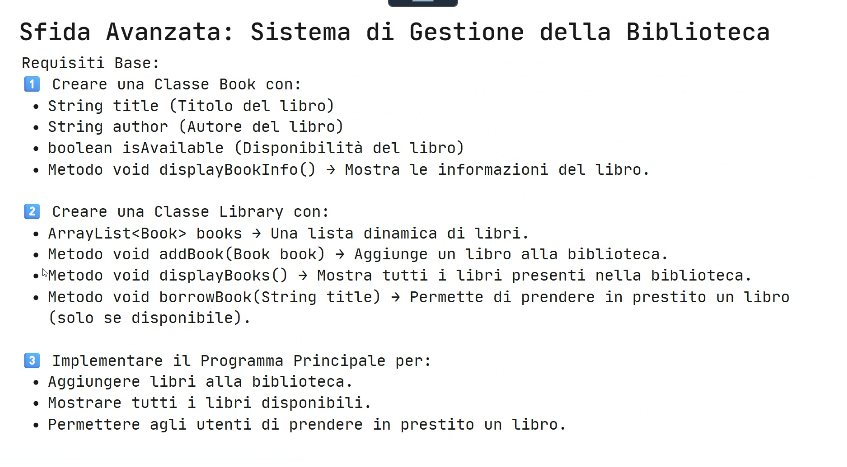
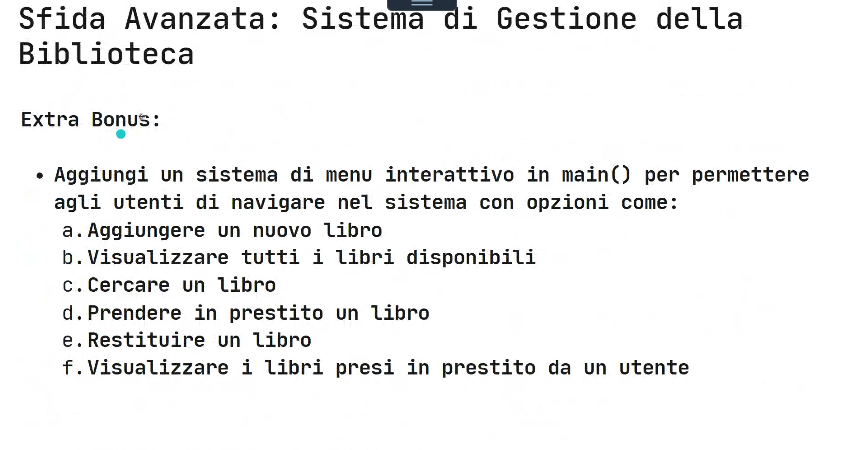
Biblioteca esercizio

Changed region(s): [[0.0, 0.0, 0.9516, 0.9333]]

diff --git a/30-06/Biblioteca.java b/30-06/Biblioteca.java
@@ -1,0 +1,206 @@
+import java.util.ArrayList;
+import java.util.Scanner;
+
+class Book
+{
+    //instance variables declaration
+    public String title;
+    public String author;
+    public boolean isAvailable;
+
+    //constructor method
+    public Book(String title, String author, boolean isAvailable)
+    {
+        this.title = title;
+        this.author = author;
+        this.isAvailable = isAvailable;
+    }
+
+    //print book data method
+    public void displayBookInfo()
+    {
+        String availability = isAvailable ? "Available" : "Not available";
+        System.out.println("Title: " + title + "\nAuthor: " + author + "\n" + availability);
+    }
+}
+
+class Library
+{
+    //instance variables declaration
+    private ArrayList<Book> books;
+
+    //constructor method
+    public Library()
+    {
+        books = new ArrayList<>();
+    }
+
+    //add a book to the list method
+    public void addBook(Book book)
+    {
+        books.add(book);
+
+        System.out.println("Book " + book.title + " added to the library");
+    }
+
+    //prints book data in the list method
+    public void displayBooks()
+    {
+        for (Book book : books)
+        {
+            book.displayBookInfo();
+        }
+    }
+
+    //borrows a book in the list
+    public void borrowBook(String title)
+    {
+        int bookIndex = searchBook(title);
+
+        //in case the book has not been found in the library
+        if(bookIndex == -1)
+        {
+            System.out.println("Book " + title + " not available in the library");
+            return;
+        }
+
+        //if the book is available
+        if(books.get(bookIndex).isAvailable)
+        {
+            books.get(bookIndex).isAvailable = false;
+            System.out.println("Book " + title + " borrowed");
+        }
+
+        //in case the book is already in borrow
+        else
+        {
+            System.out.println("Book " + title + " is already in borrow");
+        }
+    }
+
+    //returns a book in the list
+    public void returnBook(String title)
+    {
+        int bookIndex = searchBook(title);
+
+        //in case the book has not been found in the library
+        if(bookIndex == -1)
+        {
+            System.out.println("You can't return a book not available in the library.\nBook " + title + " not available");
+            return;
+        }
+
+        //if the book is available
+        if(!books.get(bookIndex).isAvailable)
+        {
+            books.get(bookIndex).isAvailable = true;
+            System.out.println("Book " + title + " returned");
+        }
+
+        //in case the book was already returned
+        else
+        {
+            System.out.println("The book " + title + " was already returned");
+        } 
+    }
+
+    //returns the book index if found.
+    //returns -1 if the book has not been found in the library
+    public int searchBook(String title)
+    {
+        int searchBookResult = -1;
+
+        for (int i = 0; i < books.size(); i++)
+        {
+            if(books.get(i).title.compareToIgnoreCase(title) == 0)
+            {
+                searchBookResult = i;
+                break;
+            }
+        }
+
+        return searchBookResult;
+    }
+}
+
+public class Biblioteca
+{
+    public static void main(String[] args)
+    {
+        //variables declaration & init
+        Scanner numScanner = new Scanner(System.in);
+        Scanner stringScanner = new Scanner(System.in);
+
+        int menuOption = 0;
+        Library library = new Library();
+
+        do
+        {
+            //menu description
+            System.out.println("Choose which operations you want to excute:");
+            System.out.println("1: add a book to the library");
+            System.out.println("2: print all book data");
+            System.out.println("3: borrow a book");
+            System.out.println("4: return a book");
+            System.out.println("0: exit");
+
+            //menu input
+            menuOption = numScanner.nextInt();
+
+            switch(menuOption)
+            {
+                case 1:
+                    //local variables
+                    String bookTitle = "";
+                    String bookAuthor = "";
+
+                    //title input
+                    System.out.println("Insert a book title");
+                    bookTitle = stringScanner.nextLine();
+
+                    //author input
+                    System.out.println("Insert the author of the book");
+                    bookAuthor = stringScanner.nextLine();
+
+                    library.addBook(new Book(bookTitle, bookAuthor, true));
+                    break;
+
+                case 2:
+                    library.displayBooks();
+                    break;
+
+                case 3:
+                    bookTitle = "";
+
+                    //title input
+                    System.out.println("Insert the book title you want to borrow");
+                    bookTitle = stringScanner.nextLine();
+
+                    library.borrowBook(bookTitle);
+                    break;
+
+                case 4:
+                    bookTitle = "";
+
+                    //title input
+                    System.out.println("Insert the book title you want to return");
+                    bookTitle = stringScanner.nextLine();
+
+                    library.returnBook(bookTitle);
+                    break;
+
+                case 0:
+                    break;
+                default:
+                    System.out.println("Insert a valid option");
+                    break;
+
+            }
+        }
+        while(menuOption != 0);
+
+        //closes scanners usage
+        numScanner.close();
+        stringScanner.close();
+    }
+}
